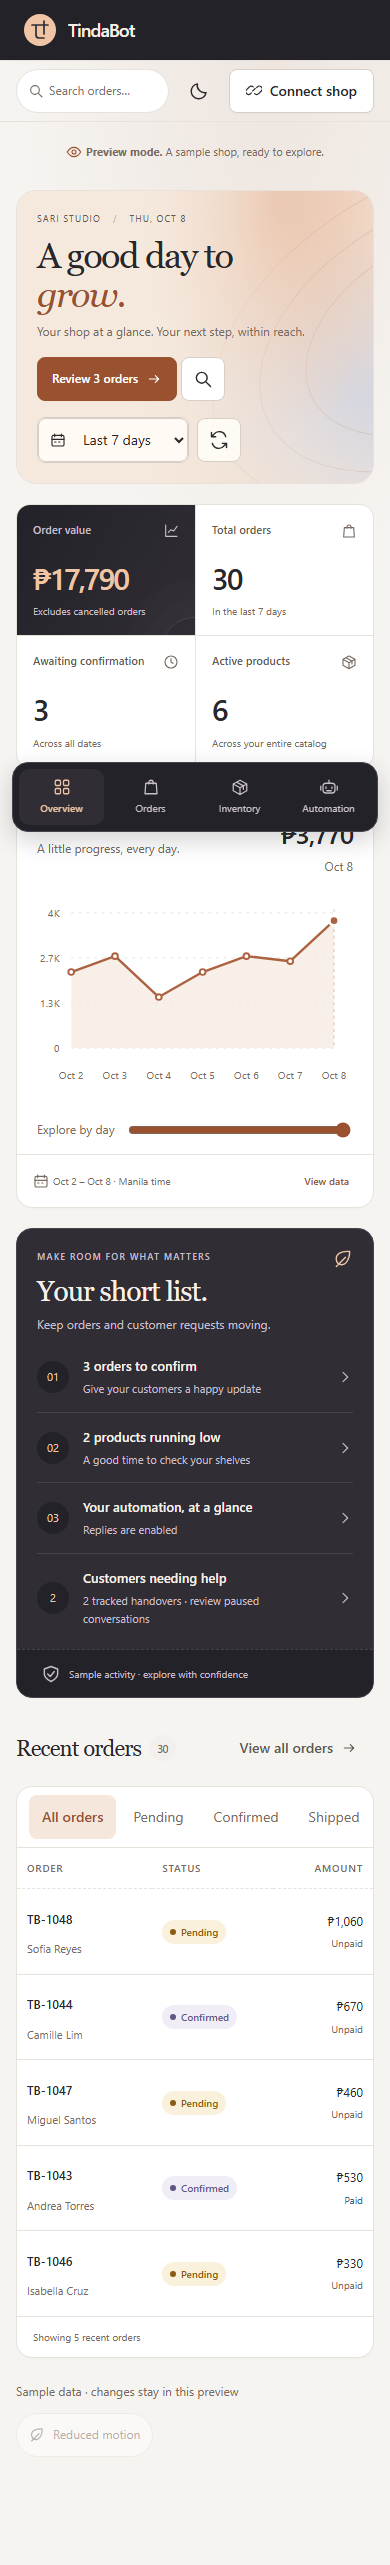
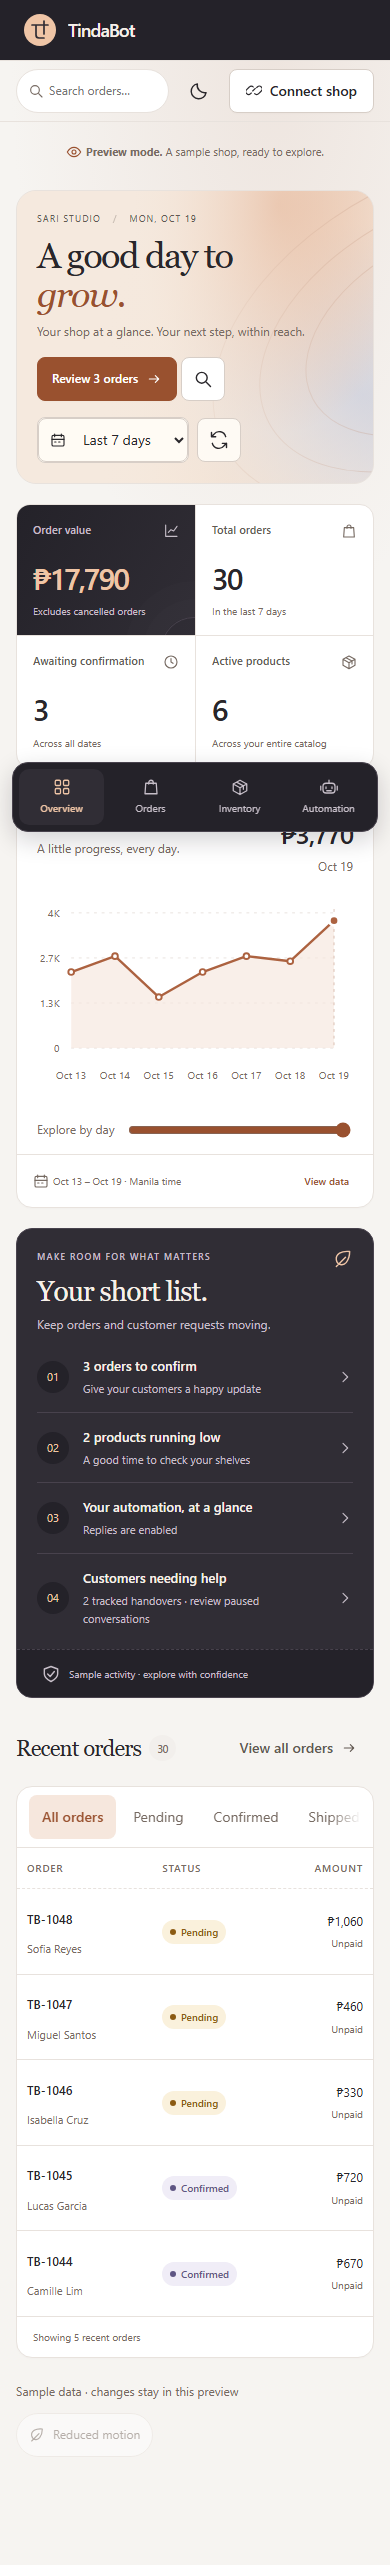
Polish workspace focus, short list numbering, and mobile filters
- Drop the focus ring on the main region after view navigation
- Number the handover row 04 in the Overview short list
- Fade and pad overflowing filter tabs on mobile
- Theme text selection and scrollbars from the palette
- Add PRODUCT.md and refresh validation screenshots

Changed region(s): [[0.4308, 0.8733, 0.5846, 0.9045], [0.4308, 0.7797, 0.5846, 0.8109], [0.1538, 0.7797, 0.1846, 0.8733]]

diff --git a/src/tindabot/web/app.js b/src/tindabot/web/app.js
@@ -162,11 +162,11 @@ function overview() {
     <button class="attention-row" data-action="pending"><span class="attention-icon numeric">01</span><span><span class="attention-title">${d.summary.pending} orders to confirm</span><small>Give your customers a happy update</small></span>${icon('chevron')}</button>
     <button class="attention-row" data-action="low-stock"><span class="attention-icon numeric">02</span><span><span class="attention-title">${low} products running low</span><small>A good time to check your shelves</small></span>${icon('chevron')}</button>
     <button class="attention-row" data-view="automation"><span class="attention-icon numeric">03</span><span><span class="attention-title">${d.failures ? `${d.failures} jobs need a look` : 'Your automation, at a glance'}</span><small>${d.automation ? 'Replies are enabled' : 'Replies are paused'}</small></span>${icon('chevron')}</button>
-    ${handoverButton()}</div><div class="bot-foot">${icon('shield')}<span>${isDemo() ? 'Sample activity · explore with confidence' : d.worker_age_seconds !== null && d.worker_age_seconds < 120 ? 'Worker heartbeat received recently' : 'Worker heartbeat needs attention'}</span></div></section></div>${orderTable(true)}`;
+    ${handoverButton('04')}</div><div class="bot-foot">${icon('shield')}<span>${isDemo() ? 'Sample activity · explore with confidence' : d.worker_age_seconds !== null && d.worker_age_seconds < 120 ? 'Worker heartbeat received recently' : 'Worker heartbeat needs attention'}</span></div></section></div>${orderTable(true)}`;
 }
-function handoverButton() {
+function handoverButton(marker) {
   const count = isDemo() ? sampleHandovers.length : state.data.handover_count || 0;
-  return `<button class="attention-row" data-action="handovers"><span class="attention-icon numeric">${count}</span><span><span class="attention-title">Customers needing help</span><small>${count} tracked handovers · review paused conversations</small></span>${icon('chevron')}</button>`;
+  return `<button class="attention-row" data-action="handovers"><span class="attention-icon numeric">${marker ?? count}</span><span><span class="attention-title">Customers needing help</span><small>${count} tracked handovers · review paused conversations</small></span>${icon('chevron')}</button>`;
 }
 function orderPipeline() {
   const stages = [['pending', 'To confirm', 'clock'], ['confirmed', 'To prepare', 'box'], ['shipped', 'On the way', 'arrow'], ['delivered', 'Delivered', 'check']];

diff --git a/src/tindabot/web/workspace.css b/src/tindabot/web/workspace.css
@@ -10,6 +10,10 @@ button:active:not(:disabled) { transform: scale(.97); }
 button:disabled { opacity: .5; cursor: not-allowed; }
 a { color: var(--accent); text-underline-offset: var(--space-1); }
 :focus-visible { outline: 2px solid var(--focus); outline-offset: 3px; }
+/* Main is a programmatic focus target after navigation, not a control. */
+#main:focus { outline: none; }
+::selection { background: var(--accent-soft); color: var(--text-primary); }
+:root { scrollbar-color: var(--border-strong) transparent; }
 h1, h2, h3, p { margin: 0; }
 h1, h2, h3 { line-height: var(--leading-heading); font-weight: var(--weight-semibold); }
 h1 { font-size: var(--text-2xl); letter-spacing: var(--tracking-heading); }
@@ -212,7 +216,7 @@ dialog.drawer[open] { animation-name: drawer-enter; }
   .metric-value { font-size: var(--text-2xl); } .main-grid { gap: var(--space-4); margin-bottom: var(--space-6); }
   .panel-head { padding: var(--space-5); } .chart { padding-inline: var(--space-4); height: 13rem; } .chart-footer { padding-inline: var(--space-5); }
   .attention { padding-inline: var(--space-5); display: block; } .attention-icon, .attention-row > .icon { display: grid; } .attention-row { align-items: center; } .attention-row + .attention-row { border-top: 1px solid var(--border-subtle); }
-  .table-toolbar { align-items: flex-start; flex-direction: column; padding-inline: var(--space-3); } .filters { max-width: 100%; width: 100%; } .table-footer { padding-inline: var(--space-4); gap: var(--space-4); } .table-footer span:last-child { display: none; }
+  .table-toolbar { align-items: flex-start; flex-direction: column; padding-inline: var(--space-3); } .filters { max-width: 100%; width: 100%; padding-inline-end: var(--space-8); mask-image: linear-gradient(to right, #000 calc(100% - var(--space-8)), transparent); scrollbar-width: none; } .table-footer { padding-inline: var(--space-4); gap: var(--space-4); } .table-footer span:last-child { display: none; }
   .inventory-grid { grid-template-columns: repeat(2, minmax(0, 1fr)); gap: var(--space-3); } .product { padding: var(--space-4); } .product-top { flex-direction: column; } .product-bottom { align-items: flex-start; flex-direction: column; } .product h2 { font-size: var(--text-sm); }
   .setting-row { padding: var(--space-5); } .page-footer { flex-direction: column; } .panel-head .legend { display: none; }
 }

diff --git a/PRODUCT.md b/PRODUCT.md
@@ -1,0 +1,67 @@
+# Product
+
+<!-- impeccable:product-schema 1 -->
+
+## Platform
+
+web
+
+## Users
+
+- **Customers:** Filipino shoppers who message a seller's Facebook Page in Messenger, usually on mobile and with little patience. They write in English, Tagalog, or Taglish and want to know the price and get an order placed in under two minutes. They never see the web workspace.
+- **Seller and staff:** a small PH business (clothing, food, beauty, pre-loved items) with basic smartphone and Google Sheets skills. They use the seller workspace for daily order work: confirming orders, checking payments, adjusting stock, packing and shipping, and picking up chats handed over by the bot.
+- **Operator:** the person who deploys and configures TindaBot. They work in the same workspace on automation controls, delivery recovery, diagnostics, and tokens.
+
+The seller workspace at `/` serves seller staff and the operator equally, as one interface.
+
+## Product Purpose
+
+TindaBot is a Messenger ordering service for one Facebook Page. It answers repetitive questions instantly ("hm po?", "avail pa?", "COD?"), shows the catalog, takes complete orders through guided checkout, tracks orders, and hands a conversation to a human when needed. Every order lands in PostgreSQL and a Google Sheet the seller already knows how to use.
+
+Success means no lost orders, complete order details every time, fewer repeated questions for the seller, and the seller stepping in only when it matters.
+
+## Positioning
+
+A deterministic, auditable order taker, not an AI chatbot. FAQ matching uses explicit keywords. Checkout is a state machine. Inventory is allocated atomically. Delivery is durable and idempotent. Sellers keep Google Sheets as a working fallback (the Commands tab), and human takeover is explicit, so the bot never talks over the seller.
+
+## Operating Context
+
+- Customers use Messenger, within Meta's 24-hour messaging window.
+- Sellers use the Google Sheet (Products, FAQ, Orders projection, Commands), seller email notifications, the Facebook Page inbox for handovers, and the seller workspace.
+- Payments happen outside the system: COD, GCash, or bank transfer instructions. Refunds are tracked as external references.
+- Scale: one Page, 10 to 500 conversations a day.
+- Status: a locally verified release candidate headed for a **supervised pilot with a real seller Page**. Not yet deployed or approved for public orders.
+
+## Capabilities and Constraints
+
+- Implemented: webhook intake with signature checks; Taglish FAQ; catalog carousel; guided checkout (delivery or pickup, PH phone validation, version-tied confirmation); atomic inventory; order tracking; human handover queue with version-checked resume; seller workspace (Overview, Orders, Inventory, Automation) with notes and history, external-refund tracking, stock adjustments, CSV export, a global automation switch, and delivery recovery.
+- Workspace credentials stay in tab memory only. Status-only tokens cannot read customer data. When no operator is connected, the public shell shows **labeled sample data**.
+- The default `dry_run` mode sends nothing. Shipping, pickup, and payment settings are deploy-time configuration in this release.
+- Out of scope: online payment processing, card data, AI free chat, courier integrations, multi-Page SaaS.
+- Deferred: payment-proof upload, proactive status messages, fuzzy FAQ matching, a seller-editable Settings tab.
+- Terminology: order code, SKU, Commands tab, handover, automation pause/resume, dry run.
+
+## Brand Commitments
+
+- Name: **TindaBot**.
+- Workspace UI language: **English**. Taglish belongs only in customer-facing Messenger replies.
+
+## Evidence on Hand
+
+- Validation screenshots and test reports: `docs/validation/`. Local load report: `docs/validation/local-load.json` (internal processing only, no real Messenger delivery).
+- Design audit and incumbent design system: `docs/DESIGN_SYSTEM.md`. Release state: `docs/RELEASE_STATUS.md`.
+- None yet: real customers, testimonials, seller case studies, pilot results, or production metrics. Do not fabricate them. Sample data must stay labeled as sample.
+
+## Product Principles
+
+1. **Never lose or invent an order.** Truth lives in the database. The UI shows what is real and labels what is sample or uncertain.
+2. **The seller stays in control.** The bot yields on handover, pauses conservatively, and resumes only by explicit action.
+3. **Meet sellers where they already work.** Messenger, Sheets, email, and a phone come first. The workspace adds to them and doesn't replace them.
+4. **Make risky actions explicit.** Status changes, stock adjustments, refunds, and delivery recovery are confirmed, version-checked, and auditable.
+5. **Two users, one tool.** Daily seller tasks stay simple and visible. Operator diagnostics stay available without crowding them.
+
+## Accessibility & Inclusion
+
+- Keyboard-operable workspace with accessible dialogs, a command palette (Ctrl/Cmd+K), and a keyboard-accessible chart.
+- Light and dark themes. Ambient motion respects reduced-motion settings, can be paused, and falls back to lightweight CSS on mobile, data-saver, and devices without WebGL.
+- Mobile layouts are first-class because sellers work from a smartphone.
